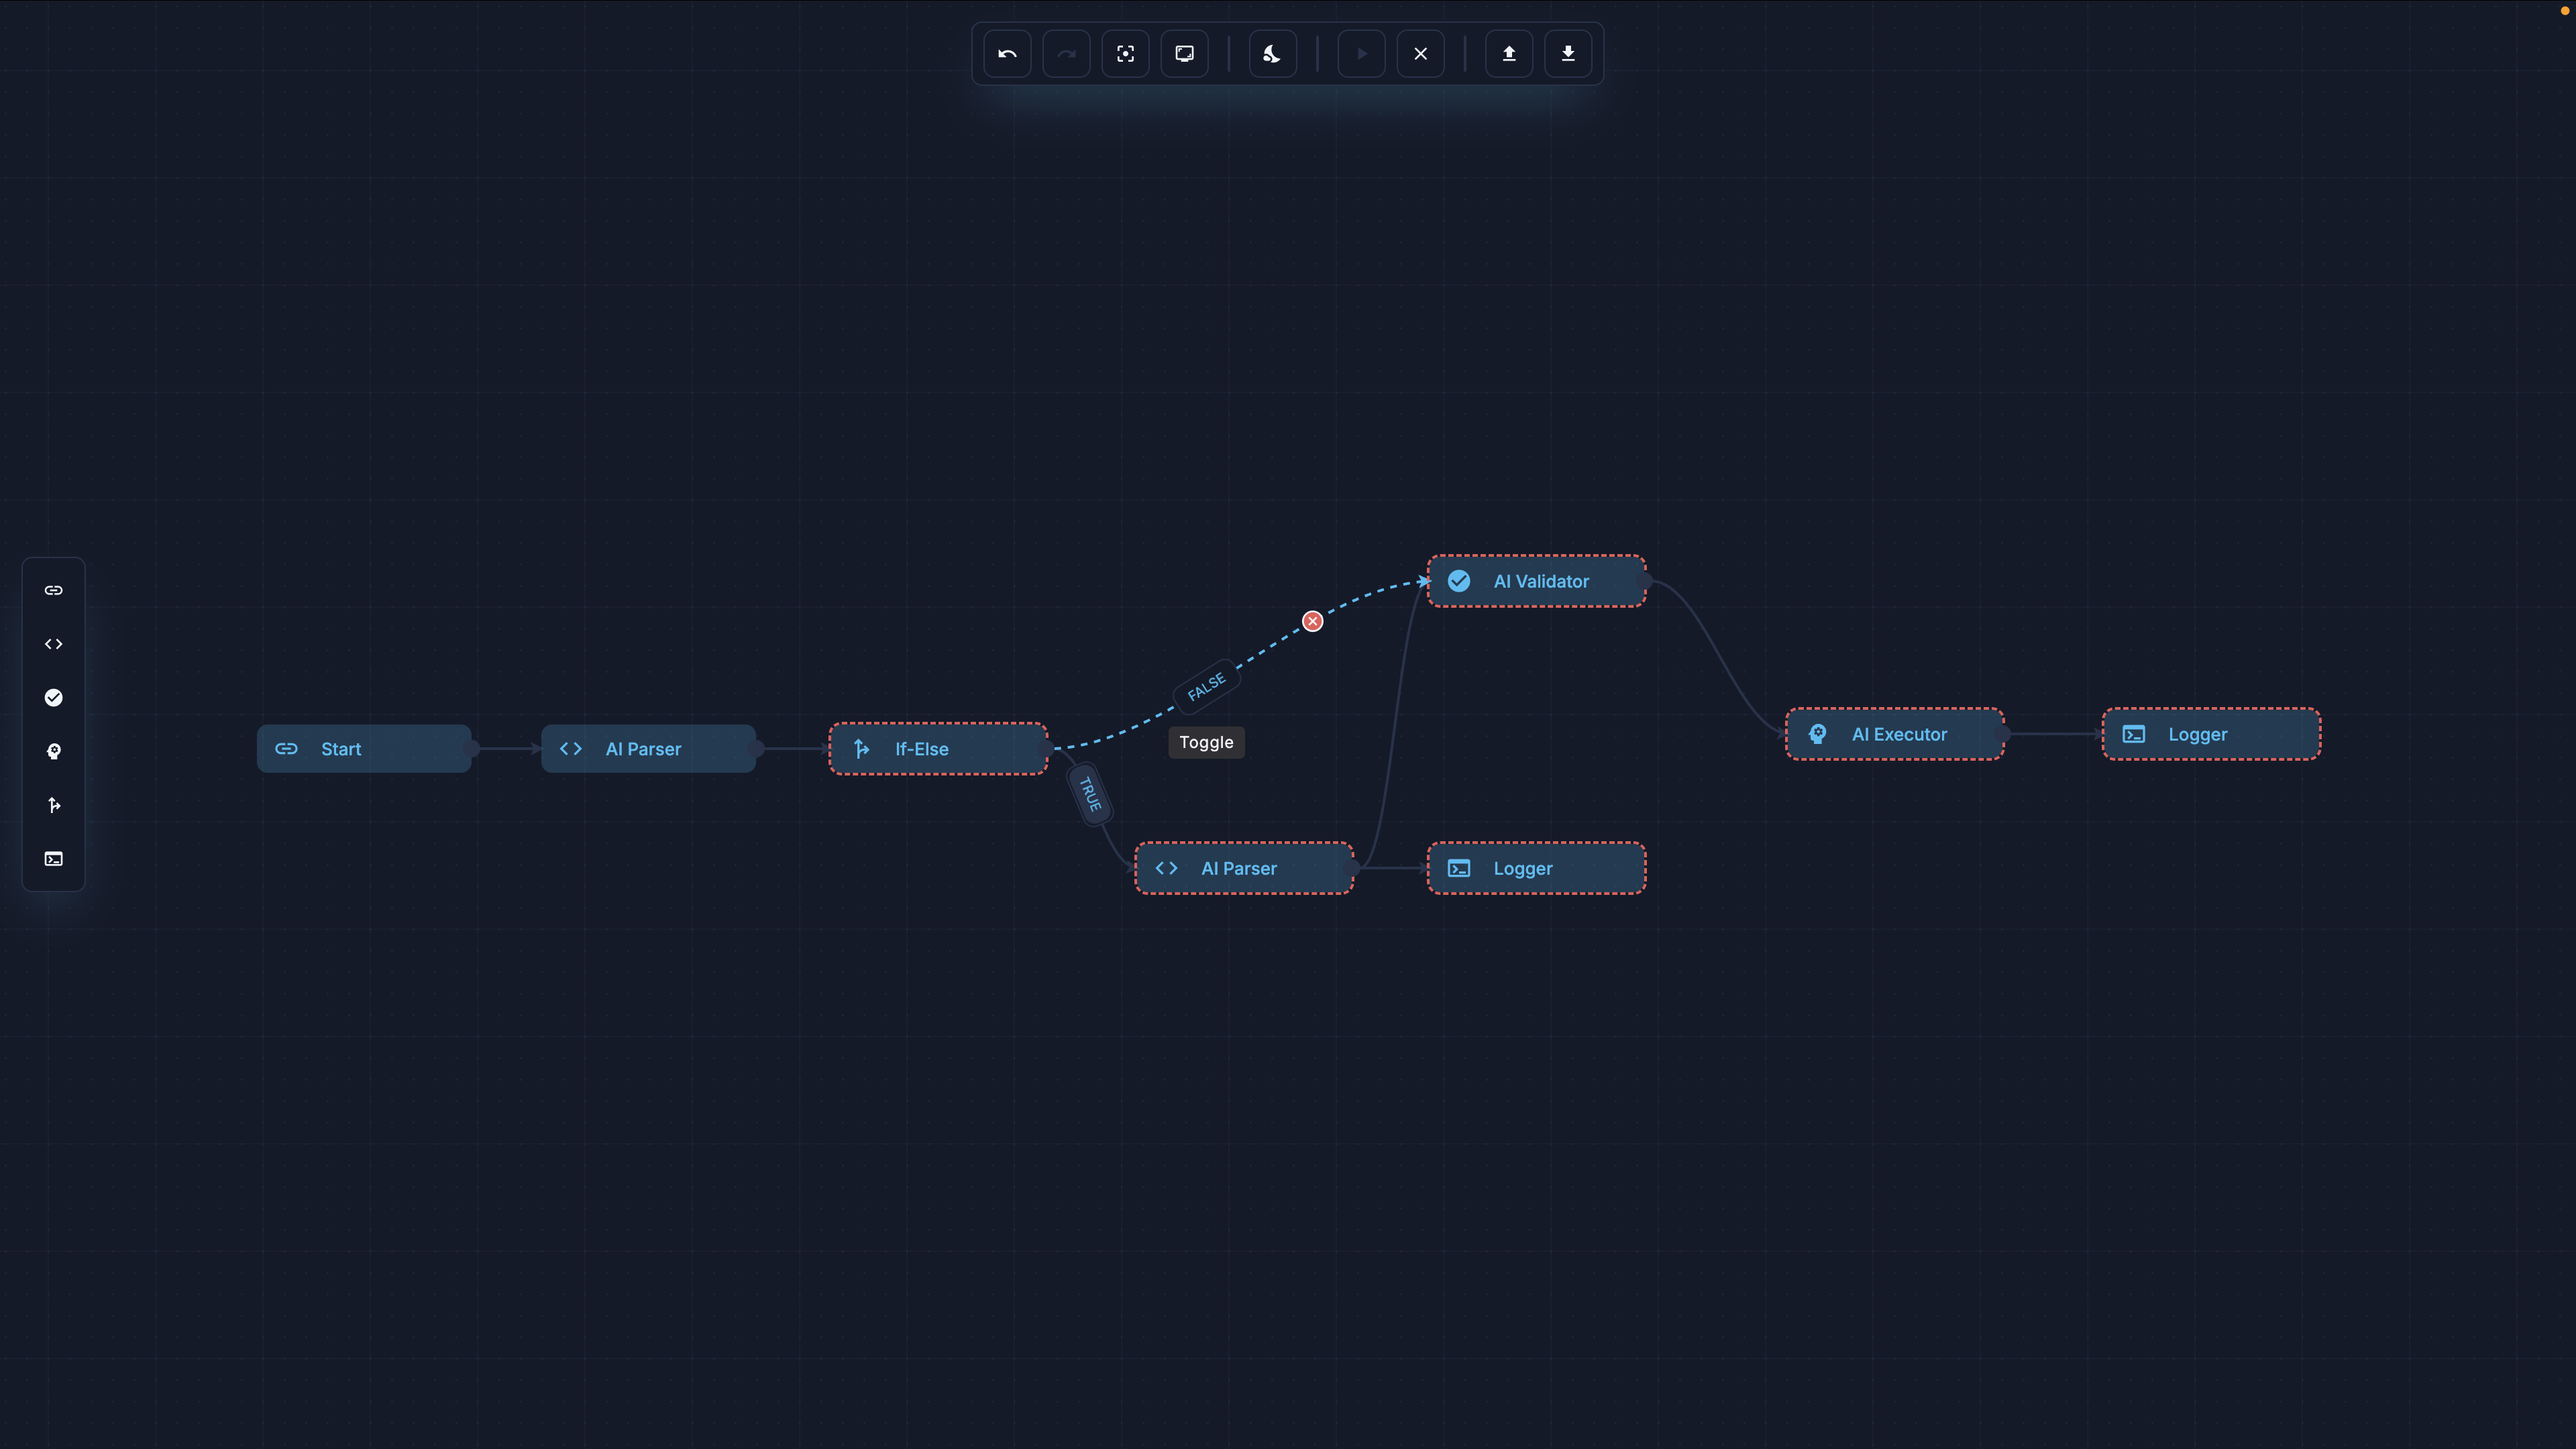
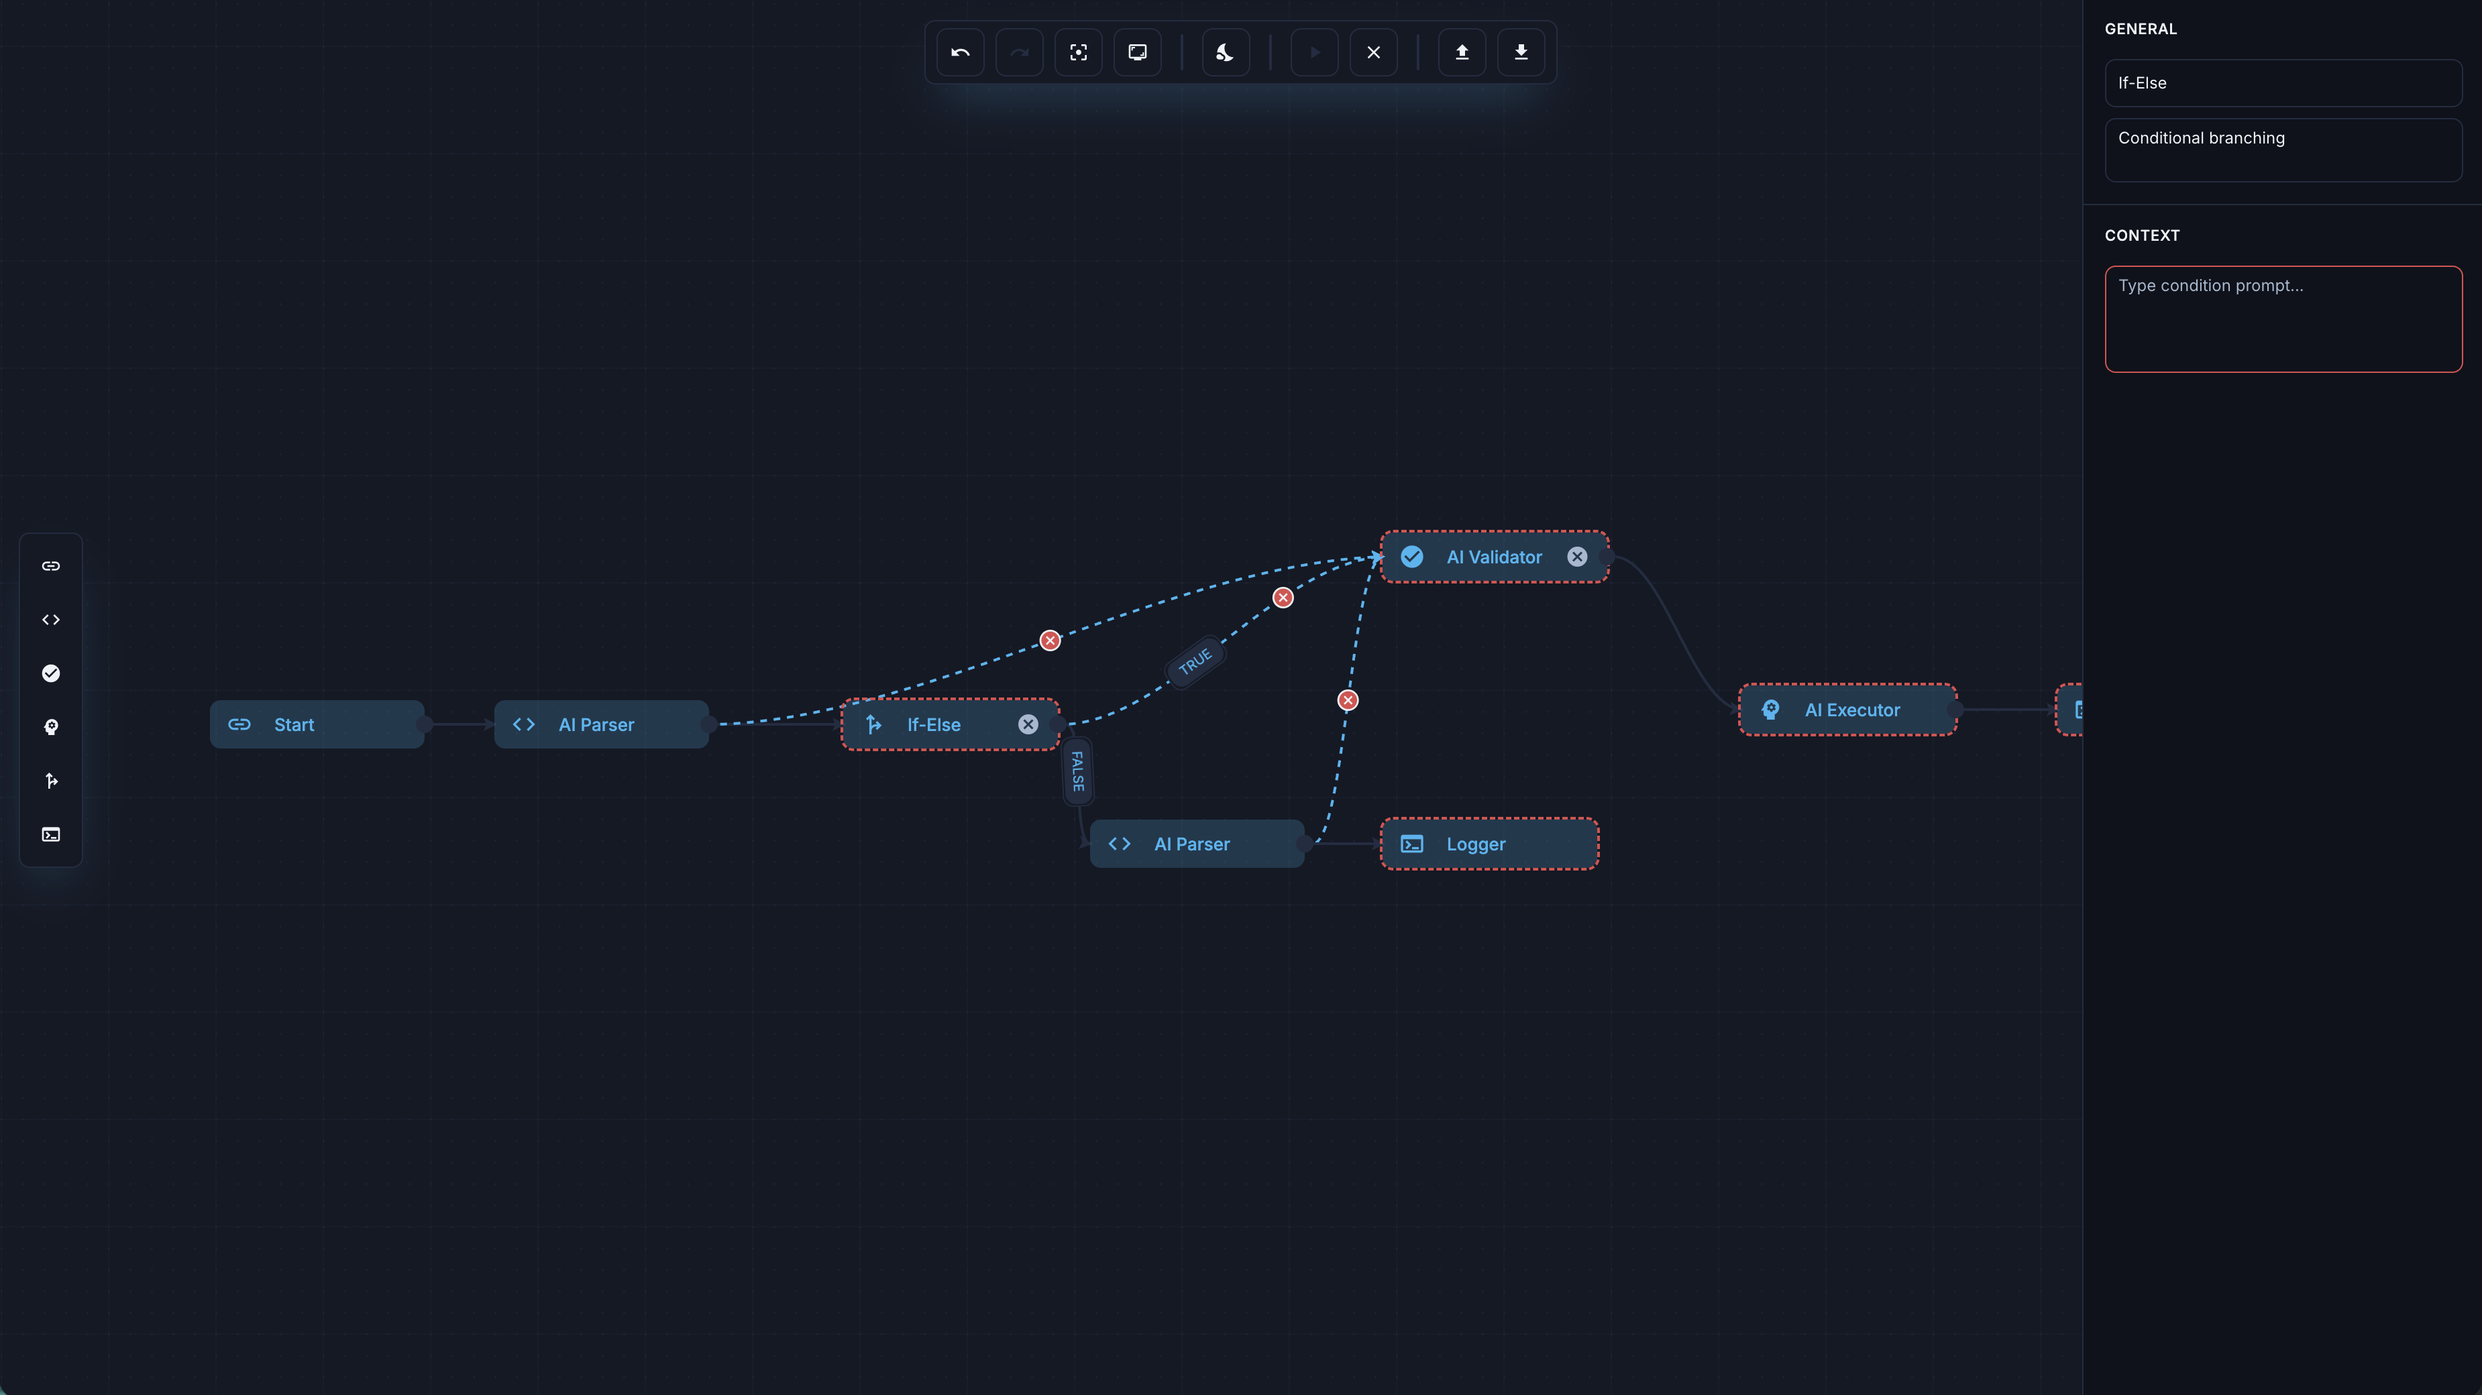
docs(examples): elevate AI low-code demo as flagship reference app

diff --git a/src/app/examples.config.ts b/src/app/examples.config.ts
@@ -1030,17 +1030,24 @@ function advancedGroup() {
 }
 
 function proExamplesGroup() {
-  return defineNavigationGroup('Pro Examples', [
+  return defineNavigationGroup('Reference Apps', [
     {
       text: 'AI Low-Code Platform',
       link: 'ai-low-code-platform',
+      pageTitle:
+        'Angular AI Low-Code IDE Example – Flagship Product-Style Demo with Foblex Flow',
       description:
-        'AI low-code platform example in Angular: create nodes, connect logic and run workflows in an interactive diagram.',
-      image: './previews/examples/vp-flow.light.png',
-      image_dark: './previews/examples/vp-flow.dark.png',
-      image_width: 757,
-      image_height: 600,
+        'Flagship front-end-only AI low-code IDE demo in Angular with custom nodes, JSON import/export, multiple themes, right-side config panels, validation reflected on nodes, undo/redo, persistence, multi-select, and animated connections.',
+      image: './previews/examples/ai-low-code.light.png',
+      image_dark: './previews/examples/ai-low-code.dark.png',
+      image_width: 3700,
+      image_height: 2080,
       image_type: 'image/png',
+      date: new Date('2026-03-09 12:00:00'),
+      badge: {
+        text: 'New',
+        type: 'success',
+      },
     },
     {
       text: 'DB Management',

diff --git a/projects/f-examples/pro-examples/ai-low-code-platform/ai-low-code-platform.html b/projects/f-examples/pro-examples/ai-low-code-platform/ai-low-code-platform.html
@@ -1,6 +1,6 @@
 <iframe
   [src]="url"
-  style="width: 100%; height: 80vh; border: 0;"
+  style="width: 100%; height: 100%; border: 0;"
   loading="lazy"
   referrerpolicy="no-referrer"
   sandbox="allow-scripts allow-forms allow-popups allow-downloads allow-same-origin"

diff --git a/public/markdown/examples/ai-low-code-platform.md b/public/markdown/examples/ai-low-code-platform.md
@@ -1,34 +1,46 @@
 ---
 toc: false
 wideContent: true
-summary: "Production-style AI low-code platform example built with Foblex Flow and Angular."
+summary: "Flagship front-end-only AI low-code IDE demo showing most Foblex Flow capabilities plus themes, JSON import/export, config panels, validation, and persistence."
 primaryKeyword: "angular workflow builder example"
 schemaType: "TechArticle"
 author: "Siarhei Huzarevich"
 publishedAt: "2026-03-08"
-updatedAt: "2026-03-08"
+updatedAt: "2026-03-09"
 ---
 
 # AI Low-Code Platform
 
 ## Example
 
-This example demonstrates how to use Foblex Flow to build an **AI low-code platform interface** in Angular. It is one of the clearest examples of how the library can power a **workflow builder**, **AI pipeline UI**, or any node-based product surface where users assemble logic visually.
+This example demonstrates how to use Foblex Flow to build a **front-end-only AI low-code IDE demo** in Angular. It is the flagship example in this portal because it combines almost every major capability in the library with a more product-like application shell around the canvas.
 
-The demo focuses on a more realistic editor shape than the smaller examples: a palette, editable nodes, connections, viewport controls, persistence-friendly state, and richer UI around the canvas.
+It is not just a visual workflow builder. The demo combines a node editor with product-level features: a palette, editable nodes, right-side configuration panels, validation rules, validation feedback reflected back onto the nodes, undo/redo, JSON import/export, runtime theme switching, local persistence, multi-selection, animated connections, and Angular Material UI around the flow surface.
 
-::: ng-component <ai-low-code-platform></ai-low-code-platform> [height]="700"
+::: ng-component <ai-low-code-platform></ai-low-code-platform> [height]="600"
 :::
 
 [Live demo](https://foblex.github.io/Building-AI-Low-Code-Platform5)  
 [Source code](https://github.com/Foblex/Building-AI-Low-Code-Platform5)
 
-## Possibilities
+## Product features
+
+- Use a flagship reference that combines most Foblex Flow capabilities in one Angular app.
+- Add nodes from a palette and assemble flows visually.
+- Edit node settings through right-side configuration panels with validation.
+- Reflect validation state from the panel back onto the node itself.
+- Use undo/redo as the baseline safety net while editing.
+- Import and export flows as JSON.
+- Switch between multiple themes at runtime.
+- Persist state and settings in `localStorage`.
+- Use animated connections to make data flow easier to read.
+- Select multiple items for batch operations.
+
+## Implementation highlights
 
 - Add nodes from the palette to the canvas using the [fExternalItem](./docs/f-external-item-directive) directive.
 - Connect nodes using the [f-connection-for-create](./docs/f-connection-for-create-component) component.
-- Reassign connections.
-- Move nodes and pan the canvas.
+- Reassign connections, move nodes, and pan the canvas.
 - Zoom with the `mouse wheel`, `double click`, and buttons using the [fZoom](./docs/f-zoom-directive) directive.
 - Set the background using the [f-background](./docs/f-background-component) component.
 - Use alignment helpers and a [minimap](./docs/f-minimap-component).
@@ -36,4 +48,4 @@ The demo focuses on a more realistic editor shape than the smaller examples: a p
 
 ## When to use it
 
-Start from this example if you are evaluating Foblex Flow for AI workflows, internal automation tools, visual logic editors, or any production-style Angular workflow builder.
+Start from this example if you are evaluating Foblex Flow as the foundation for an AI workflow IDE, internal automation tool, visual logic editor, or any Angular node-based product where the canvas has to work together with forms, validation, persistence, and richer application UI.

diff --git a/README.md b/README.md
@@ -41,7 +41,7 @@ It works with Angular 15+, SSR, standalone components, and zoneless-friendly app
 
 ## Examples
 
-- [AI Low-Code Platform](https://flow.foblex.com/examples/ai-low-code-platform) - A production-style Angular example for custom nodes, palette-driven creation, and interactive workflow logic.
+- [AI Low-Code Platform](https://flow.foblex.com/examples/ai-low-code-platform) - A flagship front-end-only AI low-code IDE demo with custom nodes, JSON import/export, multiple themes, config panels with validation, validation feedback on nodes, undo/redo, persistence, multi-select, and animated connections.
 - [DB Management](https://flow.foblex.com/examples/f-db-management-flow) - A database-oriented workflow builder with richer interactions and UI patterns.
 - [UML Diagram](https://flow.foblex.com/examples/uml-diagram-example) - An Angular example for architecture and UML-style graph interfaces.
 - [Tournament Bracket](https://flow.foblex.com/examples/tournament-bracket) - A specialized bracket UI built on the same node-based primitives.

diff --git a/projects/f-flow/README.md b/projects/f-flow/README.md
@@ -41,7 +41,7 @@ It works with Angular 15+, SSR, standalone components, and zoneless-friendly app
 
 ## Examples
 
-- [AI Low-Code Platform](https://flow.foblex.com/examples/ai-low-code-platform) - A production-style Angular example for custom nodes, palette-driven creation, and interactive workflow logic.
+- [AI Low-Code Platform](https://flow.foblex.com/examples/ai-low-code-platform) - A flagship front-end-only AI low-code IDE demo with custom nodes, JSON import/export, multiple themes, config panels with validation, validation feedback on nodes, undo/redo, persistence, multi-select, and animated connections.
 - [DB Management](https://flow.foblex.com/examples/f-db-management-flow) - A database-oriented workflow builder with richer interactions and UI patterns.
 - [UML Diagram](https://flow.foblex.com/examples/uml-diagram-example) - An Angular example for architecture and UML-style graph interfaces.
 - [Tournament Bracket](https://flow.foblex.com/examples/tournament-bracket) - A specialized bracket UI built on the same node-based primitives.

diff --git a/public/markdown/examples/overview.md b/public/markdown/examples/overview.md
@@ -24,7 +24,7 @@ For lower-level APIs, combine these pages with the [documentation](./docs/intro)
 
 ## How to use this section
 
-- Start with **Pro Examples** if you want complete, product-like editors.
+- Start with **Reference Apps** if you want complete, product-like editors.
 - Open **Connections** and **Extensions** if you are comparing specific interaction features.
 - Use **Advanced** when you need layout engines, history, or more complex editor behavior.
 
@@ -35,5 +35,5 @@ For lower-level APIs, combine these pages with the [documentation](./docs/intro)
 [Layouts]
 [Extensions]
 [Advanced]
-[Pro Examples]
+[Reference Apps]
 :::
